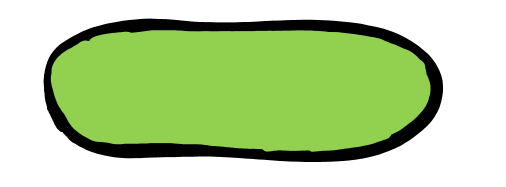
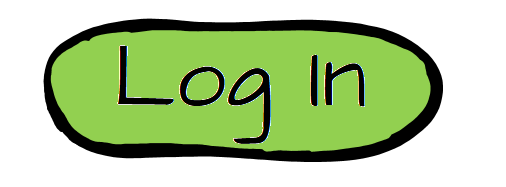
Finished initial styling for login page.

Changed region(s): [[0.2075, 0.2406, 0.5336, 0.7754], [0.5929, 0.2941, 0.7411, 0.5882]]

diff --git a/web/app/assets/stylesheets/devise.scss b/web/app/assets/stylesheets/devise.scss
@@ -48,7 +48,7 @@ body {
      #position: absolute;
      text-align: center;
      width: 400px;
-     height: 580px;
+     height: 680px;
      background-color: rgba(255,255,255,0.90);
      border: 10px solid #006a4d;
      border-radius: 40px;
@@ -121,7 +121,8 @@ body {
   font-size: 50px;
 }
 
-.test {
-  border: none;
-  background-color: #FFF;
+#logo {
+  margin: 0 auto;
+  text-align: center;
+  margin-top: 10px;
 }
